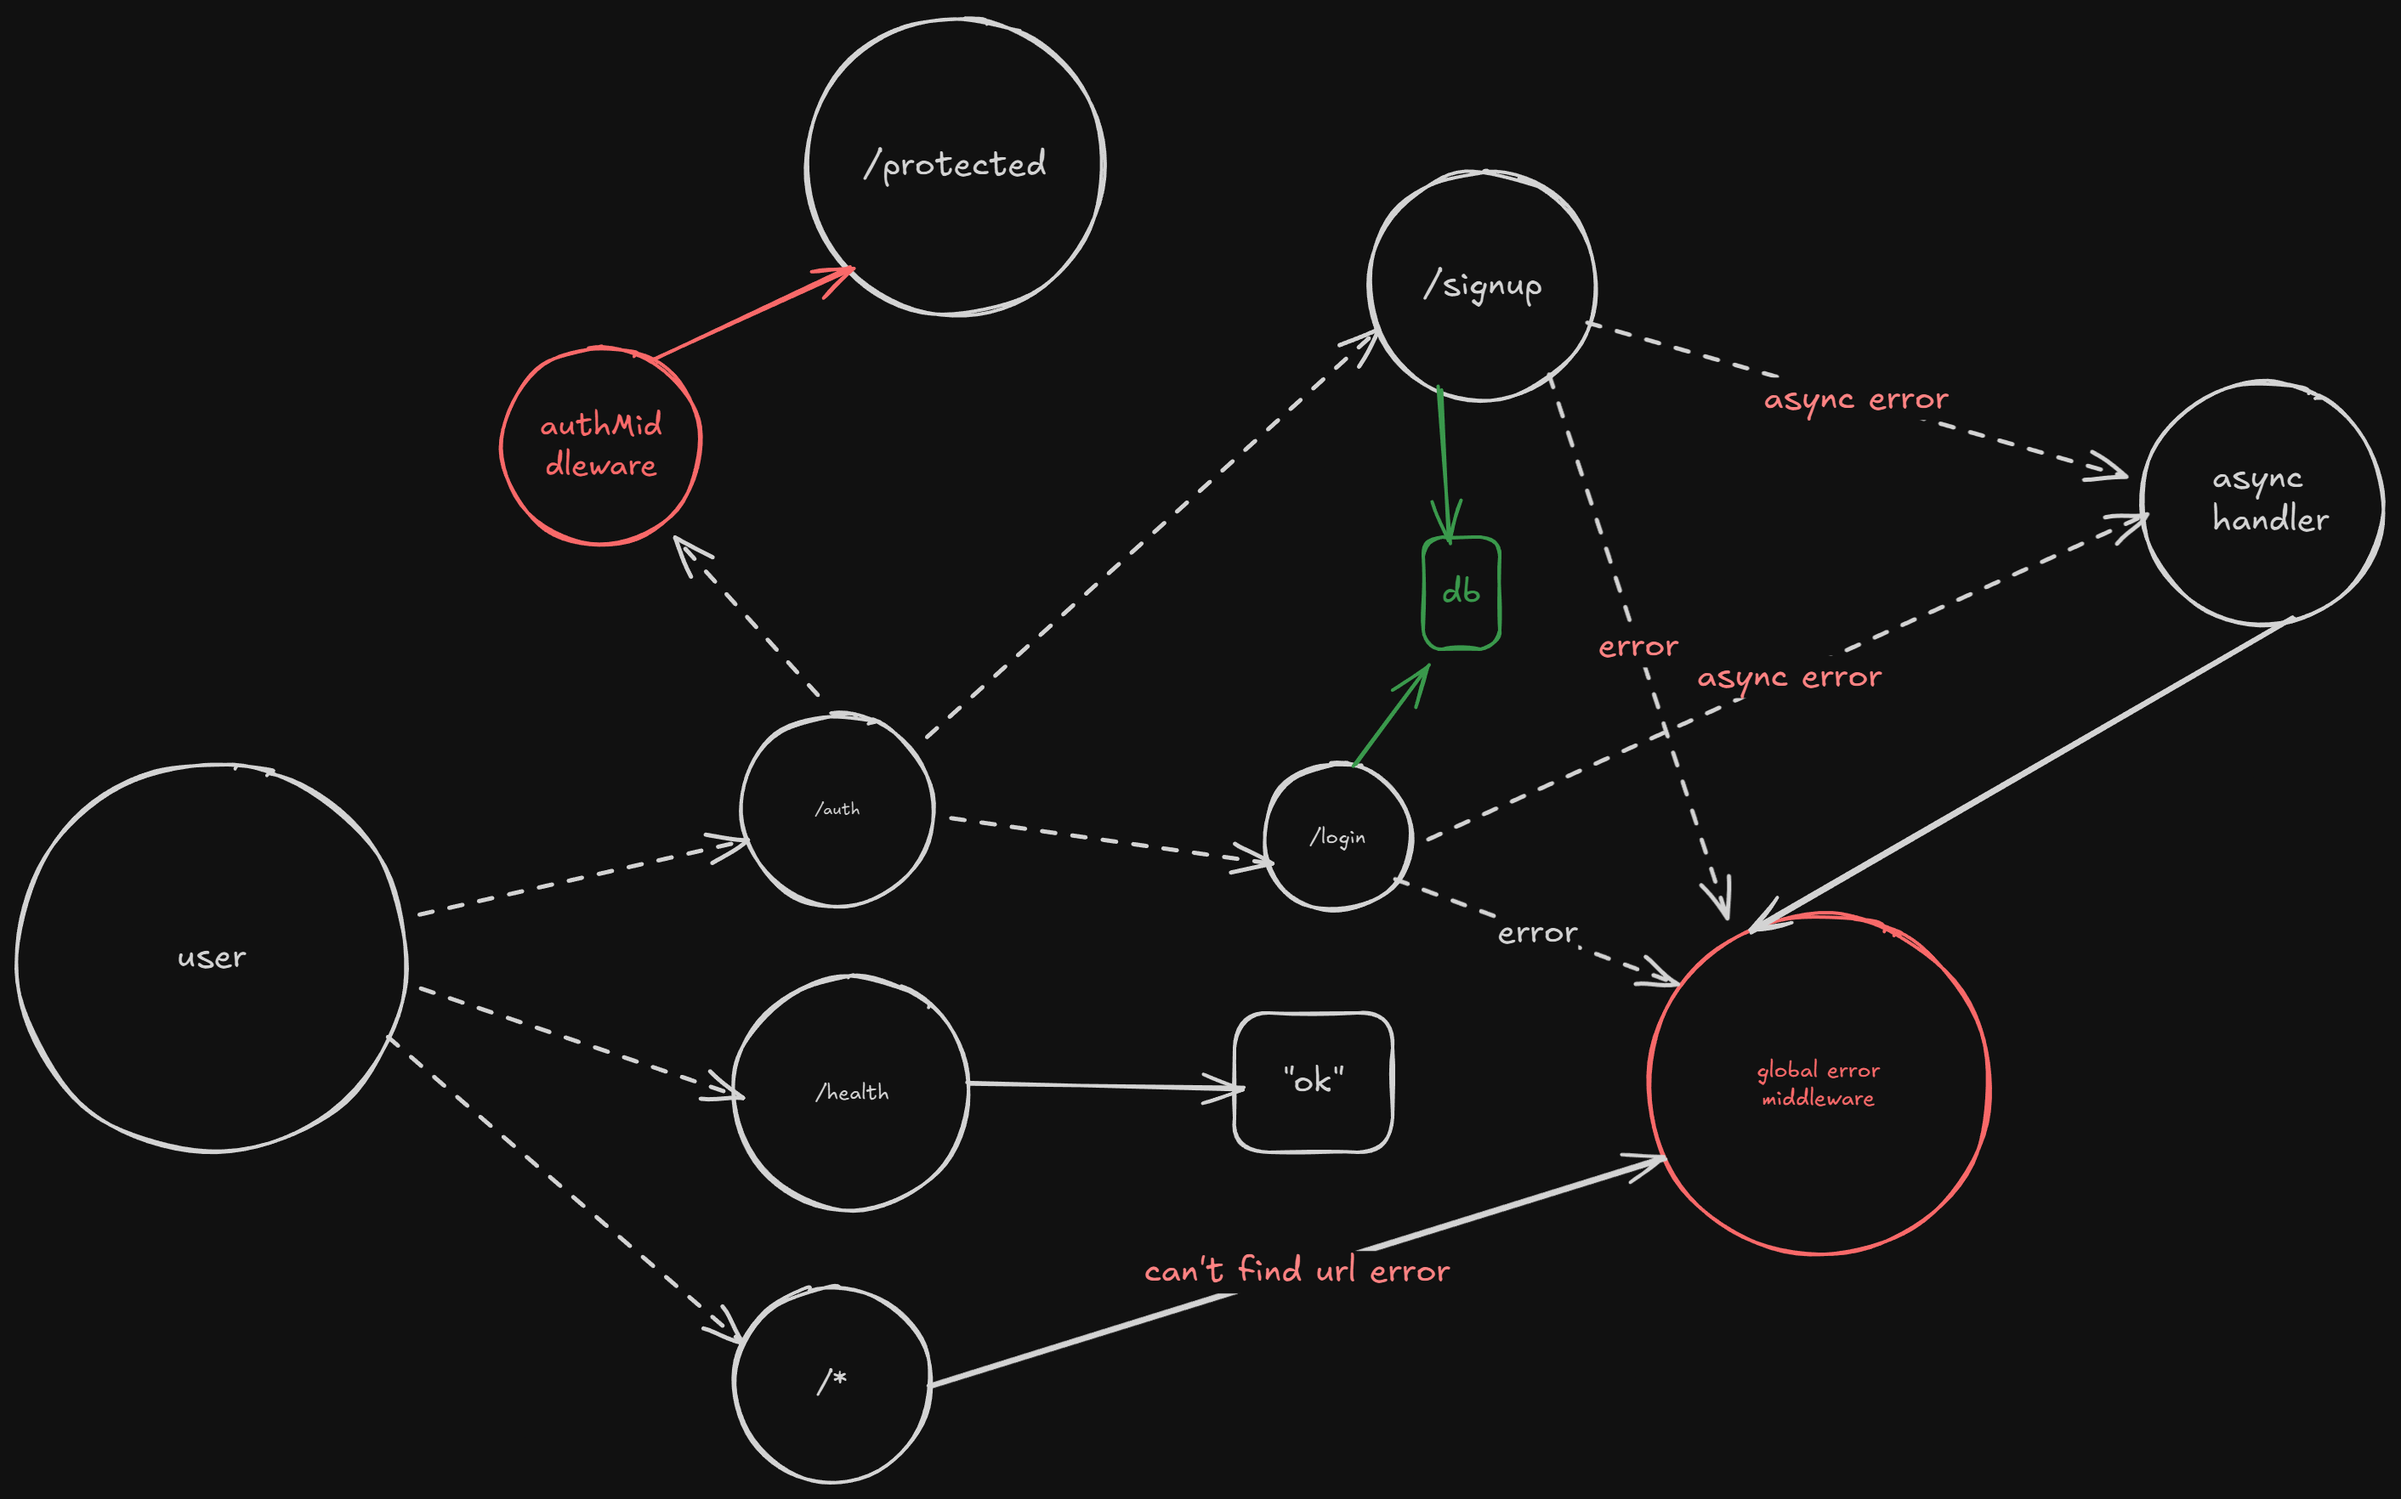
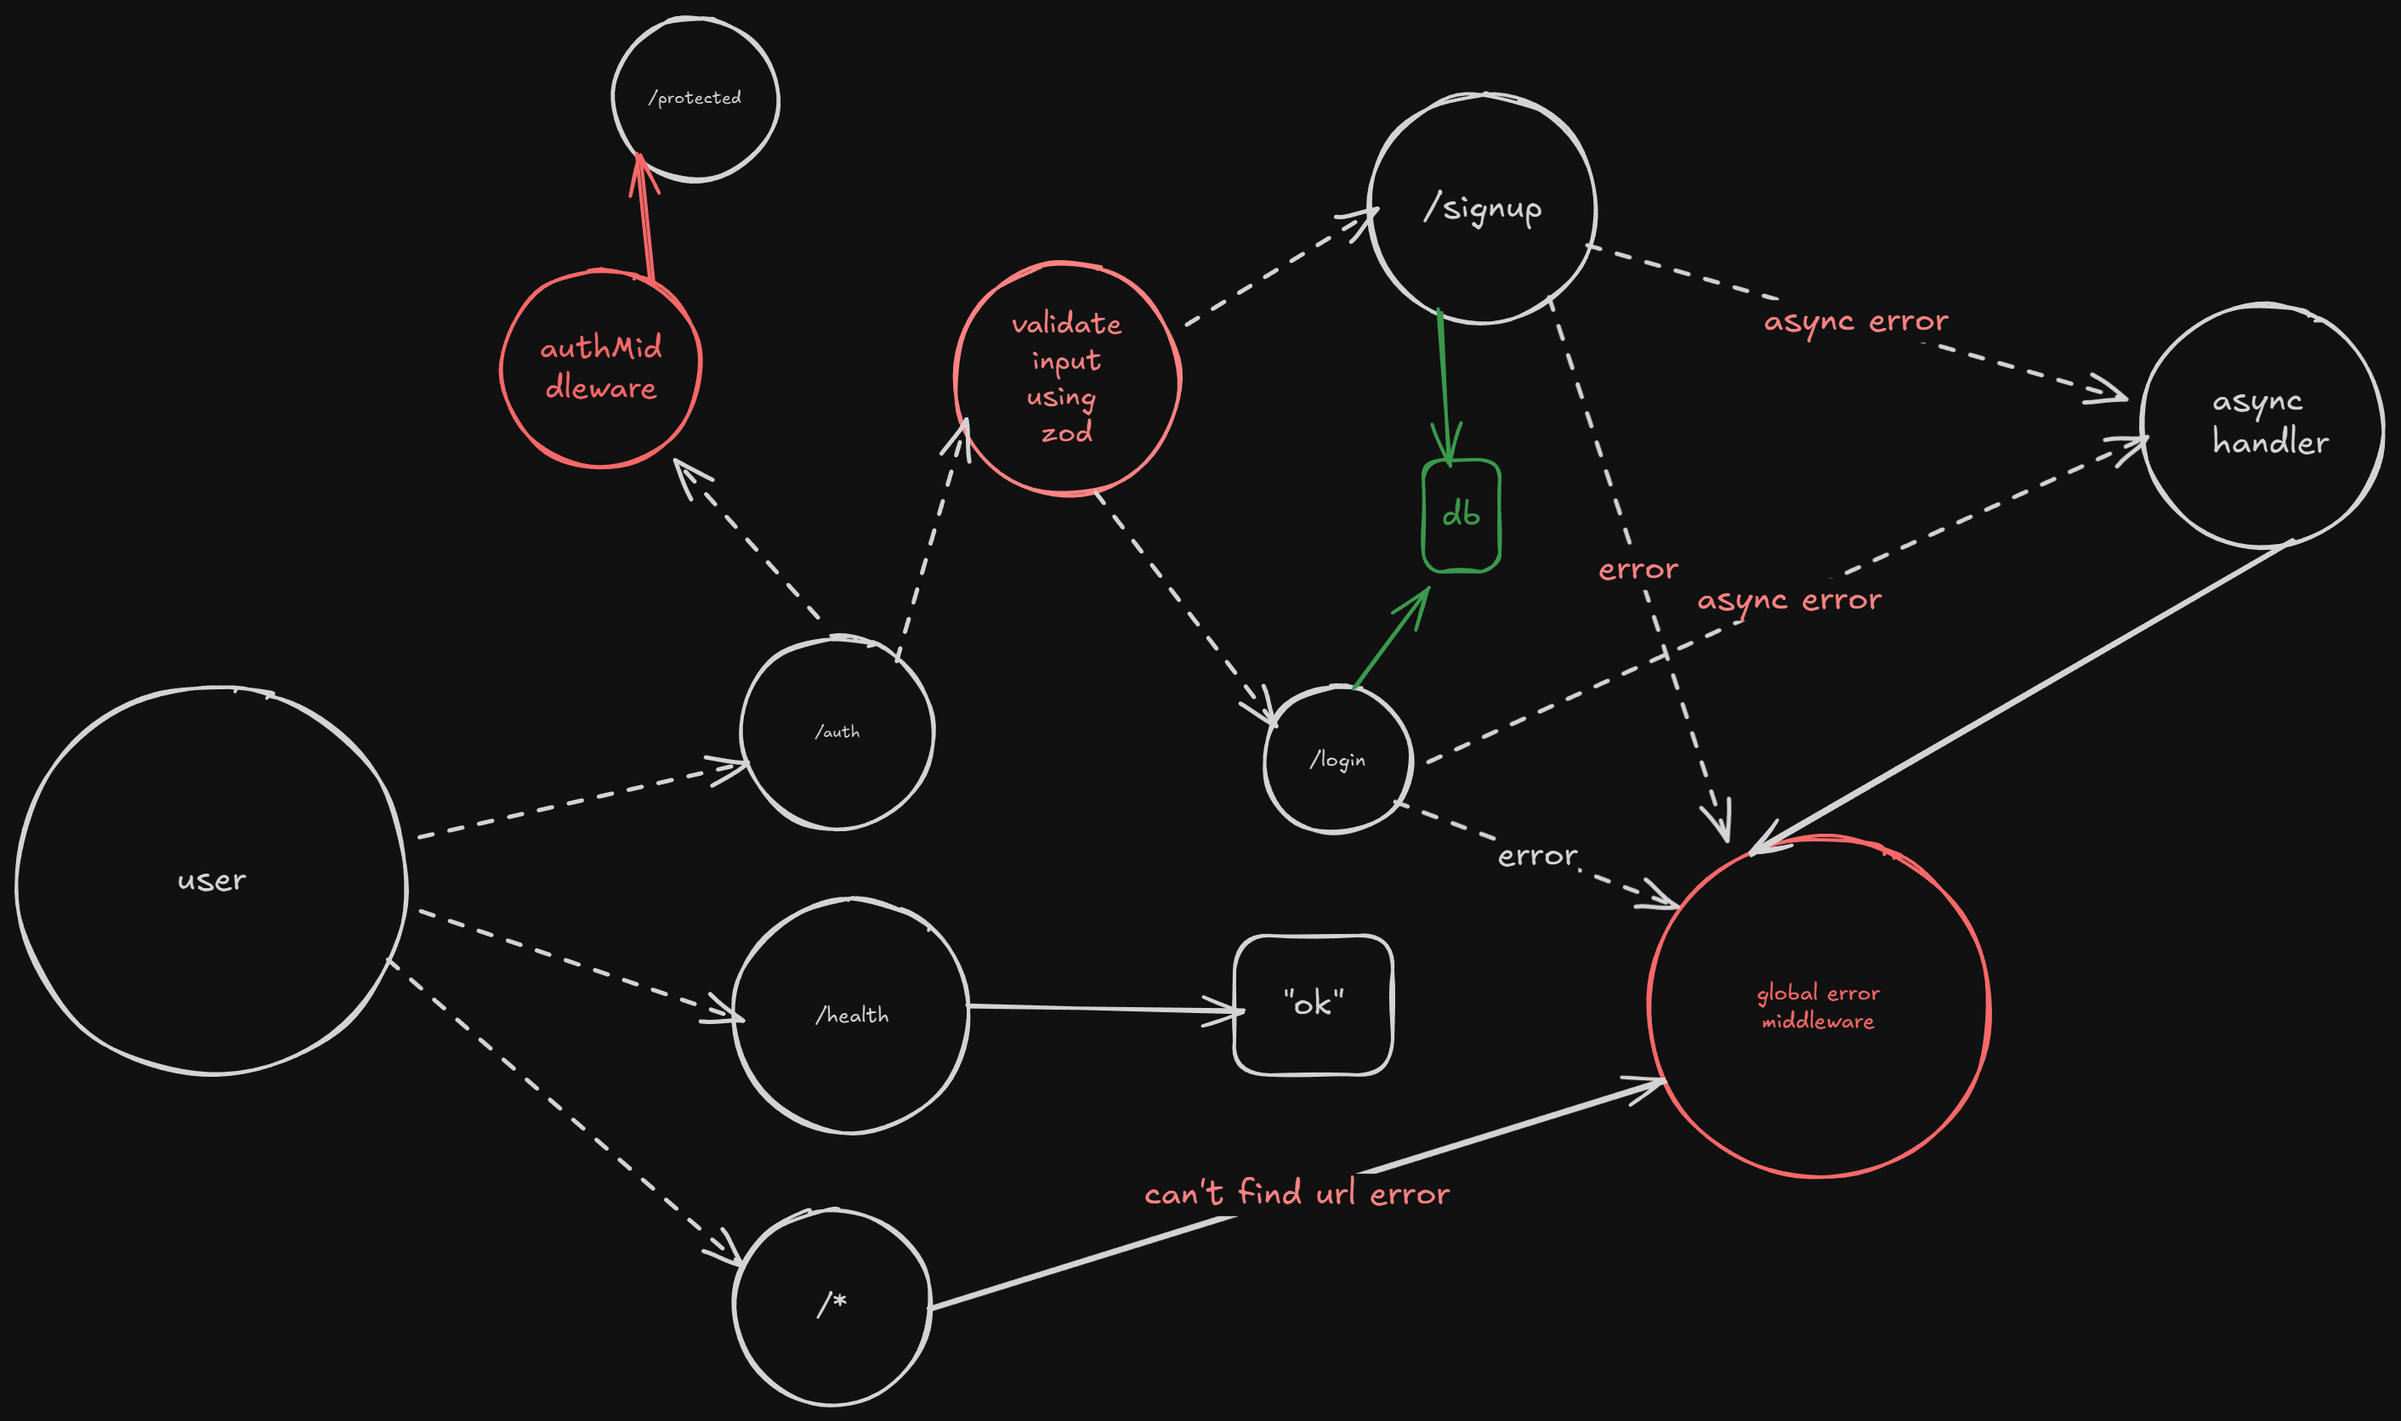
backend:zod validation

diff --git a/src/controllers/auth.controller.js b/src/controllers/auth.controller.js
@@ -5,13 +5,6 @@ import jwt from "jsonwebtoken"
 export const signup = async (req, res) => {
     const { name, email, password } = req.body;
 
-    if (!name || !email || !password) {
-        const err = new Error("Missing required fields");
-        err.statusCode = 400;
-        throw err;
-    }
-
-
     const existingUser = await User.findOne({ email });
 
     if (existingUser) {
@@ -45,13 +38,6 @@ export const signup = async (req, res) => {
 export const login = async (req, res) => {
     const { email, password } = req.body;
 
-    if (!email || !password) {
-        const err = new Error("Missing required fields");
-        err.statusCode = 400;
-        throw err;
-    }
-
-
     const user = await User.findOne({ email });
 
     if (!user) {
@@ -80,6 +66,21 @@ export const login = async (req, res) => {
     });
 }
 
-//what does bcrypt.compare actually do
-//after signup, does the user be loged in or should he log in once again?
-//because, in signup route also we are sending token
+
+export const me = async (req, res) => {
+    const userId = req.userId;
+
+    const user =await User.findById(userId).select("name email");;
+
+    if (!user) {
+        const err = new Error("User not found");
+        err.statusCode = 404;
+        throw err;
+    }
+
+    return res.status(200).json({
+        id: user._id,
+        name: user.name,
+        email: user.email
+    });
+};

diff --git a/src/routes/auth.routes.js b/src/routes/auth.routes.js
@@ -1,12 +1,16 @@
 import express from "express"
-import { login, signup } from "../controllers/auth.controller.js";
+import { login, me, signup } from "../controllers/auth.controller.js";
 import { authMiddleware } from "../middlewares/auth.middleware.js";
 import { asyncHandler } from "../utils/asyncHandler.js";
+import { validate } from "../middlewares/validate.middleware.js";
+import { loginSchema, signupSchema } from "../validators/auth.schema.js";
 
 const router = express.Router();
 
-router.post("/signup", asyncHandler(signup));
-router.post("/login", asyncHandler(login));
+router.post("/signup", validate(signupSchema), asyncHandler(signup));
+router.post("/login", validate(loginSchema), asyncHandler(login));
+
+router.get("/me", authMiddleware, asyncHandler(me));
 
 router.get("/protected", authMiddleware, (req, res) => {
     res.json({

diff --git a/src/middlewares/validate.middleware.js b/src/middlewares/validate.middleware.js
@@ -1,0 +1,15 @@
+export const validate = (schema) => {
+    return (req, res, next) => {
+        const result = schema.safeParse(req.body);
+
+        if (!result.success) {
+            // result.error contains the Zod failure details
+            const err = new Error(result.error.issues[0]?.message || "Validation failed");
+            err.statusCode = 400;
+            return next(err); // Pass the error to the next error-handling middleware
+        }
+
+        req.body = result.data;
+        next();
+    };
+};

diff --git a/src/validators/auth.schema.js b/src/validators/auth.schema.js
@@ -1,0 +1,13 @@
+import { z } from "zod"
+
+export const signupSchema = z.object({
+    // .trim() removes accidental whitespace
+    name: z.string().trim().min(1, "Required").max(50), 
+    email: z.string().email("Invalid format").max(255),
+    password: z.string().min(8).max(100)
+});
+
+export const loginSchema = z.object({
+    email: z.string().email(), // Fixed the key name here
+    password: z.string().min(1)
+});
